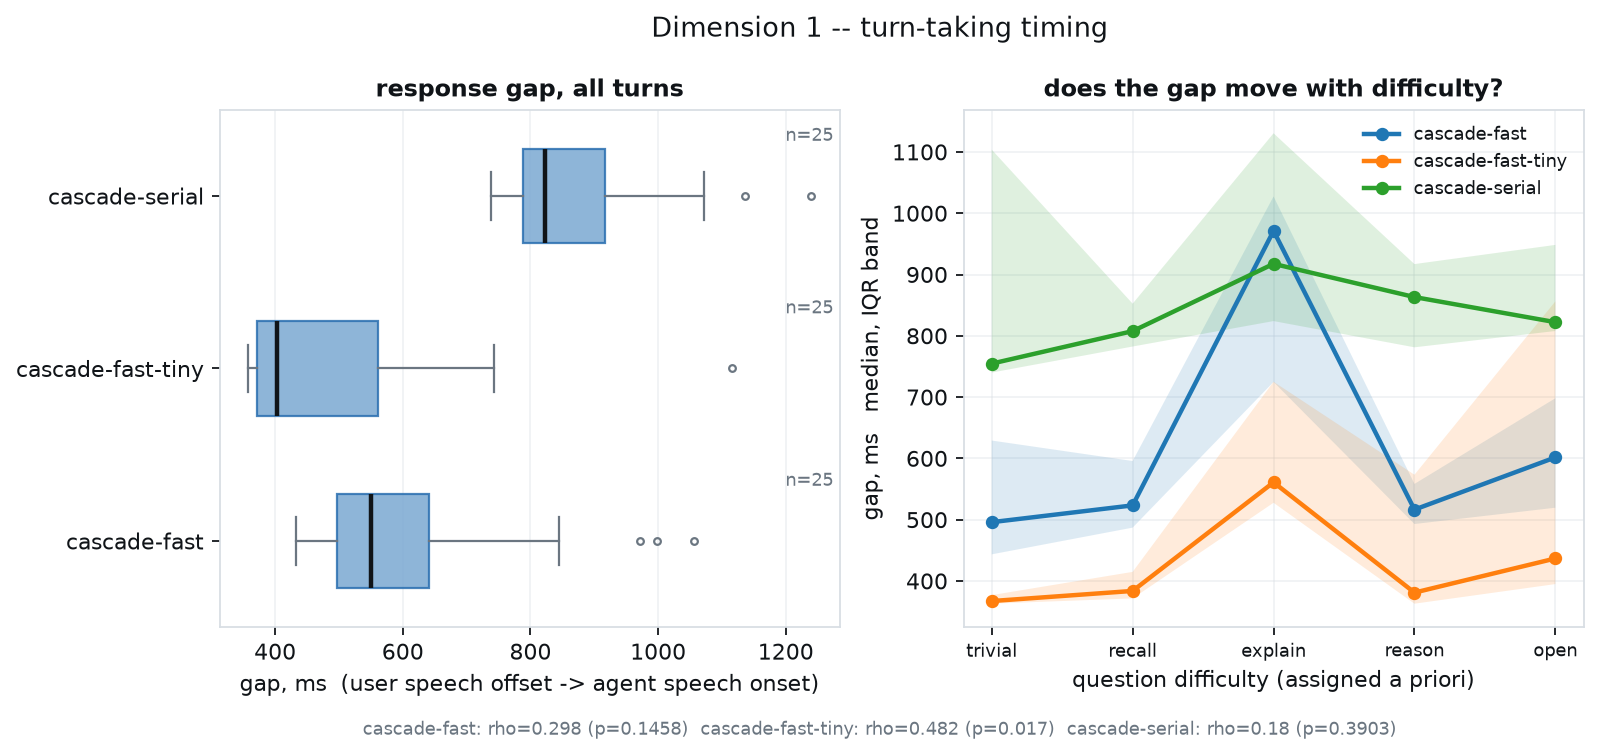
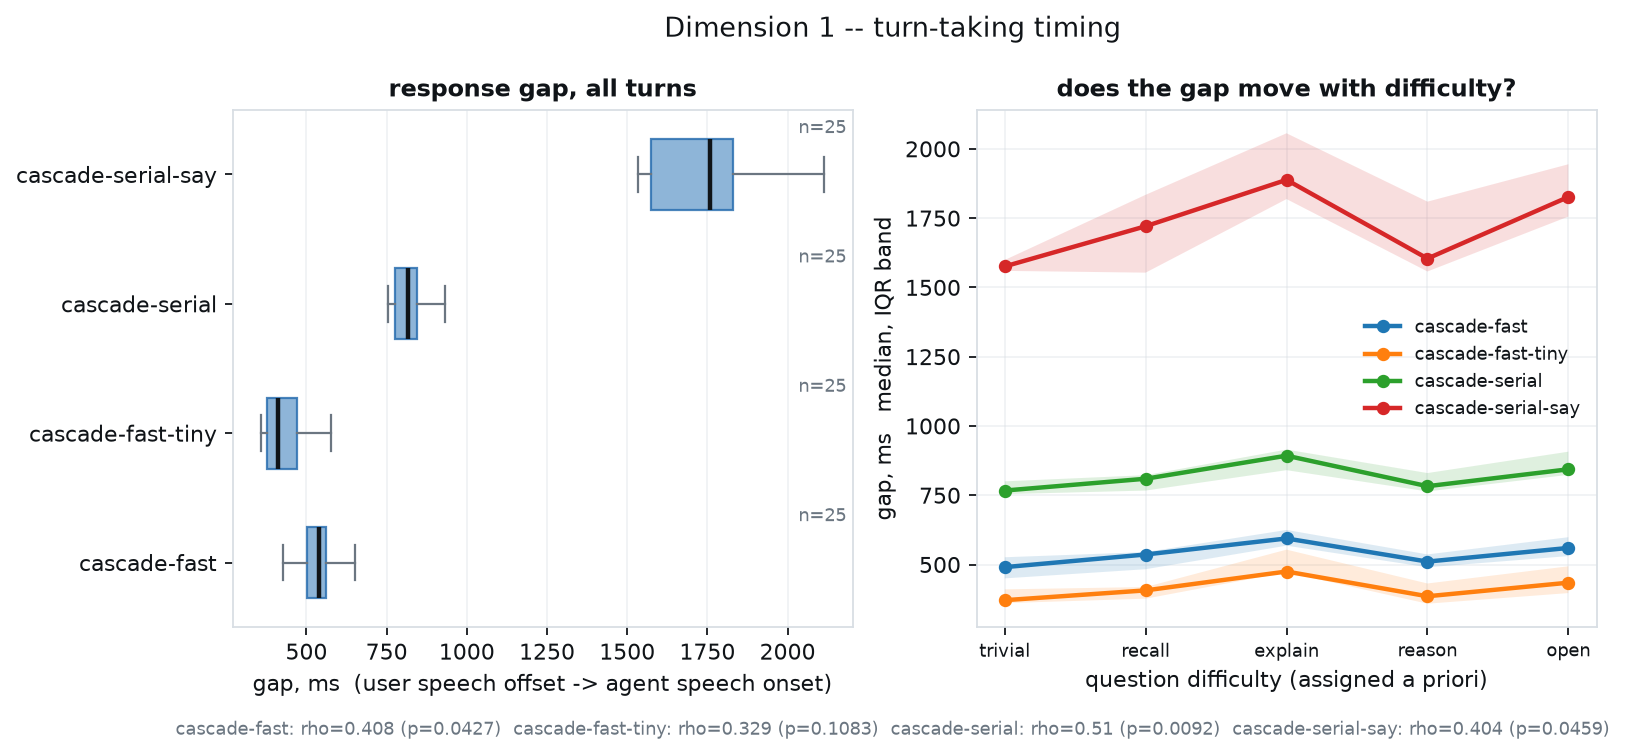
the tts backend costs more than the scheduling work saves, 941ms against 407ms

diff --git a/README.md b/README.md
@@ -14,23 +14,29 @@ per-turn JSON that produced it is in `results/`.
 **The gap does not track how hard the question is. It tracks how long the answer is.**
 
 A person takes longer to answer *"what is the meaning of life"* than *"what is two plus two."*
-None of the three agents measured here do. The raw correlation between response gap and
+None of the four agents measured here do. The raw correlation between response gap and
 question difficulty looks positive — and on the fastest configuration it even reaches
 significance — but every prompt was matched to 7–9 words, and once **reply length** is
 partialled out the correlation collapses to nothing on all three:
 
 | system | gap vs difficulty (ρ) | p | gap vs reply length (ρ) | ρ with reply length partialled out |
 |---|---|---|---|---|
-| cascade-serial | 0.180 | 0.390 | 0.454 | **−0.065** |
-| cascade-fast | 0.298 | 0.146 | 0.612 | **−0.032** |
-| cascade-fast-tiny | 0.482 | **0.017** | 0.854 | **0.195** |
+| cascade-serial | 0.510 | **0.009** | 0.802 | **+0.214** |
+| cascade-fast | 0.408 | **0.043** | 0.832 | **−0.013** |
+| cascade-fast-tiny | 0.329 | 0.108 | 0.871 | **−0.277** |
+| cascade-serial-say | 0.404 | **0.046** | 0.894 | **−0.106** |
 
-n = 25 turns per system. Spearman ρ, p from 10,000 permutations (seed 0).
+n = 25 turns per system, four systems, interleaved. Spearman ρ, p from 10,000 permutations
+(seed 0). **Three of the four show a statistically significant raw correlation with
+difficulty. All four lose it when reply length is removed.** The gap correlates with reply
+length at ρ = 0.80–0.89 on every system; with prompt audio duration at ρ = −0.12 to +0.19,
+confirming the length-matched prompt design held.
 
 The apparent adaptation is an artefact of synthesising the whole utterance before speaking:
 harder question → wordier answer → longer TTS → longer gap. Nothing in any of these systems
-models difficulty at all. The difference between tier 5 and tier 1 is 68–106 ms on a
-400–820 ms gap.
+models difficulty at all. The tier-5-minus-tier-1 difference is 63–77 ms on gaps of
+411–818 ms, and 251 ms on the `say` backend — which is not difficulty modelling either, just
+a slower synthesiser paying more for the extra words.
 
 **And four of the five dimensions are floored at zero for every system measured.** Nothing
 yields to an interruption, nothing speaks into silence, no voice carries any conversational
@@ -101,11 +107,12 @@ on the no-cue case. The systems read −240 dBFS, which is literal digital silen
 
 ## Results
 
-| system | gap median [IQR] | ρ (difficulty, reply length out) | barge-in yields | speaks into silence | prosody vs context | gaps filled |
+| system | gap median [IQR] | rho vs difficulty (reply length out) | barge-in yields | speaks into silence | prosody vs context | gaps filled |
 |---|---|---|---|---|---|---|
-| cascade-serial | 822 ms [782–930] | −0.065 | 0/17 | never | none | 0/20 |
-| cascade-fast | 550 ms [496–694] | −0.032 | 0/16 | never | none | 0/20 |
-| cascade-fast-tiny | 402 ms [371–561] | 0.195 | 0/13 | never | none | 0/20 |
+| `cascade-fast` | 540 ms [496–562] | -0.013 | 0/25 | never | none | 0/20 |
+| `cascade-fast-tiny` | 411 ms [374–472] | -0.277 | 0/21 | never | none | 0/20 |
+| `cascade-serial` | 818 ms [772–853] | 0.214 | 0/27 | never | none | 0/20 |
+| `cascade-serial-say` | 1759 ms [1574–1849] | -0.106 | 0/21 | not measured | none | 0/20 |
 
 Full per-turn records in `results/*.json`; the aggregated table in `results/aggregate.json`;
 figures in `figures/` (light and dark); the leaderboard with playable audio in
@@ -117,22 +124,36 @@ and it would let a system buy a better headline by getting faster at the one thi
 easy to get faster at. If you want one number, weight the columns yourself — and say plainly
 that the weights are your choice, not a finding.
 
-### What the three systems are
+### What the four systems are
 
-They are the same cascade agent (`aliveness-threshold/live/loop.py`, imported not vendored)
-under three schedules. They share a voice, a language model, an ASR family and a TTS backend,
-and differ **only in when work happens**:
+Three of them are the same cascade agent (`aliveness-threshold/live/loop.py`, imported not
+vendored) under three schedules. They share a voice, a language model, an ASR family and a
+TTS backend, and differ **only in when work happens**:
 
 - `cascade-serial` — downstream runs after the endpointer fires. The original path.
 - `cascade-fast` — the final decode, LM and TTS run speculatively *inside* the endpointer's
   350 ms hangover, armed after 80 ms of silence.
 - `cascade-fast-tiny` — same, with the final ASR decode on `tiny.en` instead of `base.en`.
 
-That makes them a clean controlled contrast: any difference across the five dimensions is
-attributable to scheduling, not to what the system is. **The result is that scheduling buys
-2.0× on the gap and changes nothing else.** Speed did not cost interruptibility either —
-the fast path commits to a reply after 80 ms of silence, which we expected might make barge-in
-worse, and it did not, because none of the three was ever interruptible to begin with.
+The fourth swaps only the TTS backend:
+
+- `cascade-serial-say` — the serial path speaking through macOS `say` instead of piper.
+
+That gives two clean controlled contrasts, and the comparison between them is the most
+useful thing in this table:
+
+**Scheduling bought 407 ms (818 → 411). Changing the TTS backend cost 941 ms (818 → 1759).**
+The synthesiser choice moves the gap more than twice as much as the entire speculative
+scheduling optimisation recovers — and `say` is the default fallback the loop uses whenever a
+piper voice is missing. A stack can lose all of its latency work to one absent model file.
+
+**And nothing else moved at all.** Across interruption, silence, prosody and non-verbal
+presence, all four systems return the identical floored result. Scheduling changes the
+number; the backend changes the number; neither changes whether the thing feels alive.
+
+Speed did not cost interruptibility either — the fast path commits to a reply after 80 ms of
+silence, which we expected might make barge-in worse, and it did not, because none of the
+four was ever interruptible to begin with.
 
 ---
 
